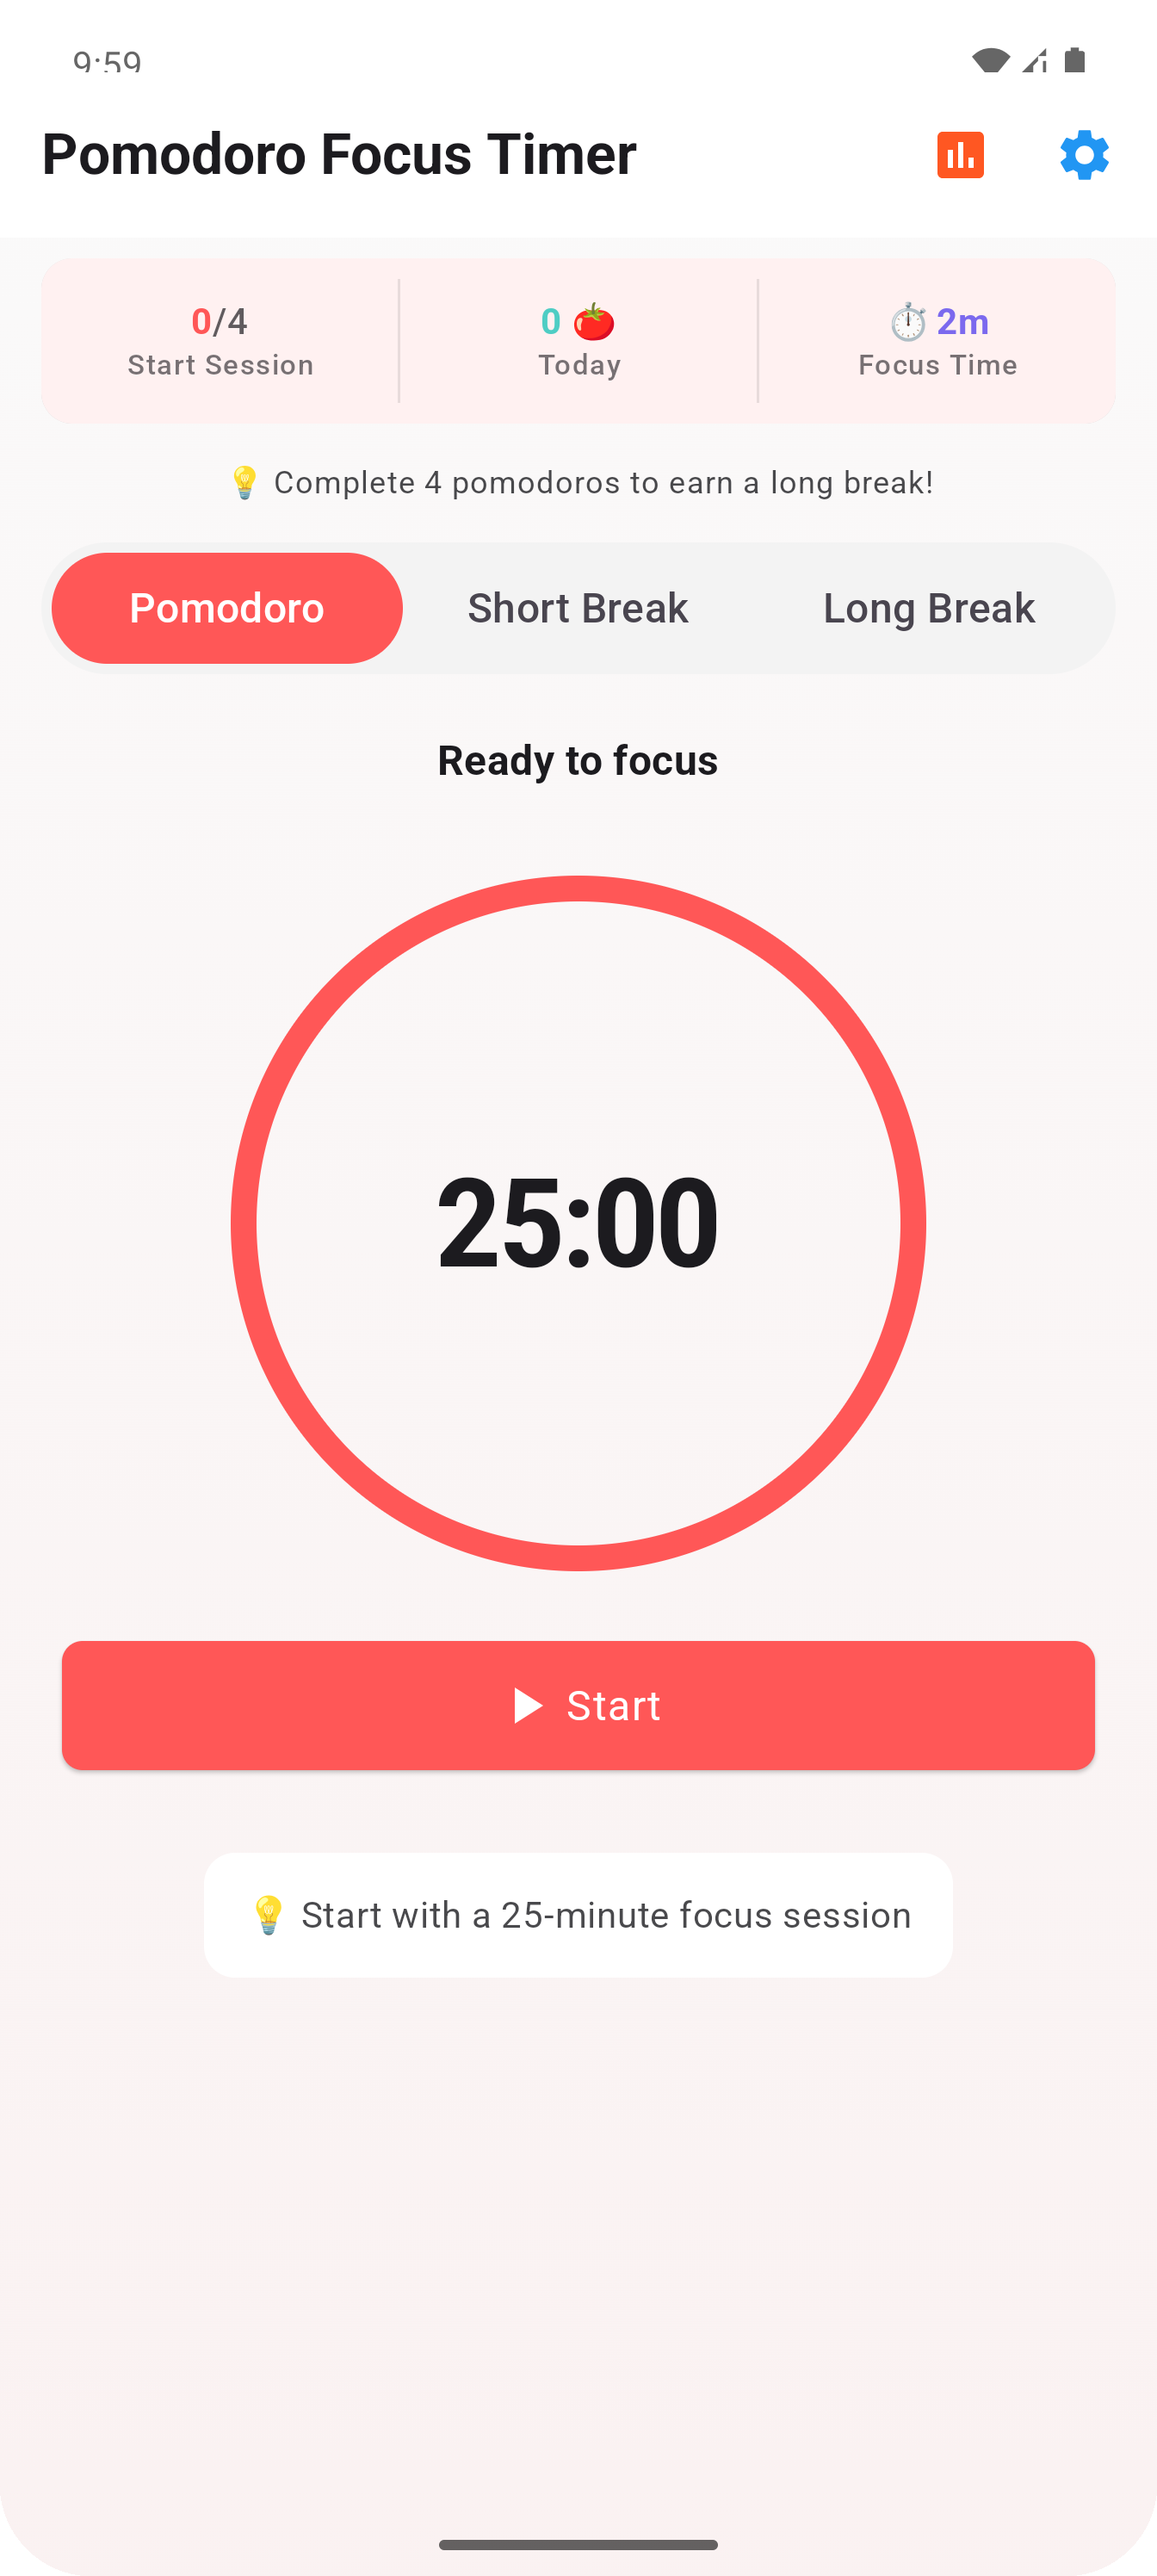
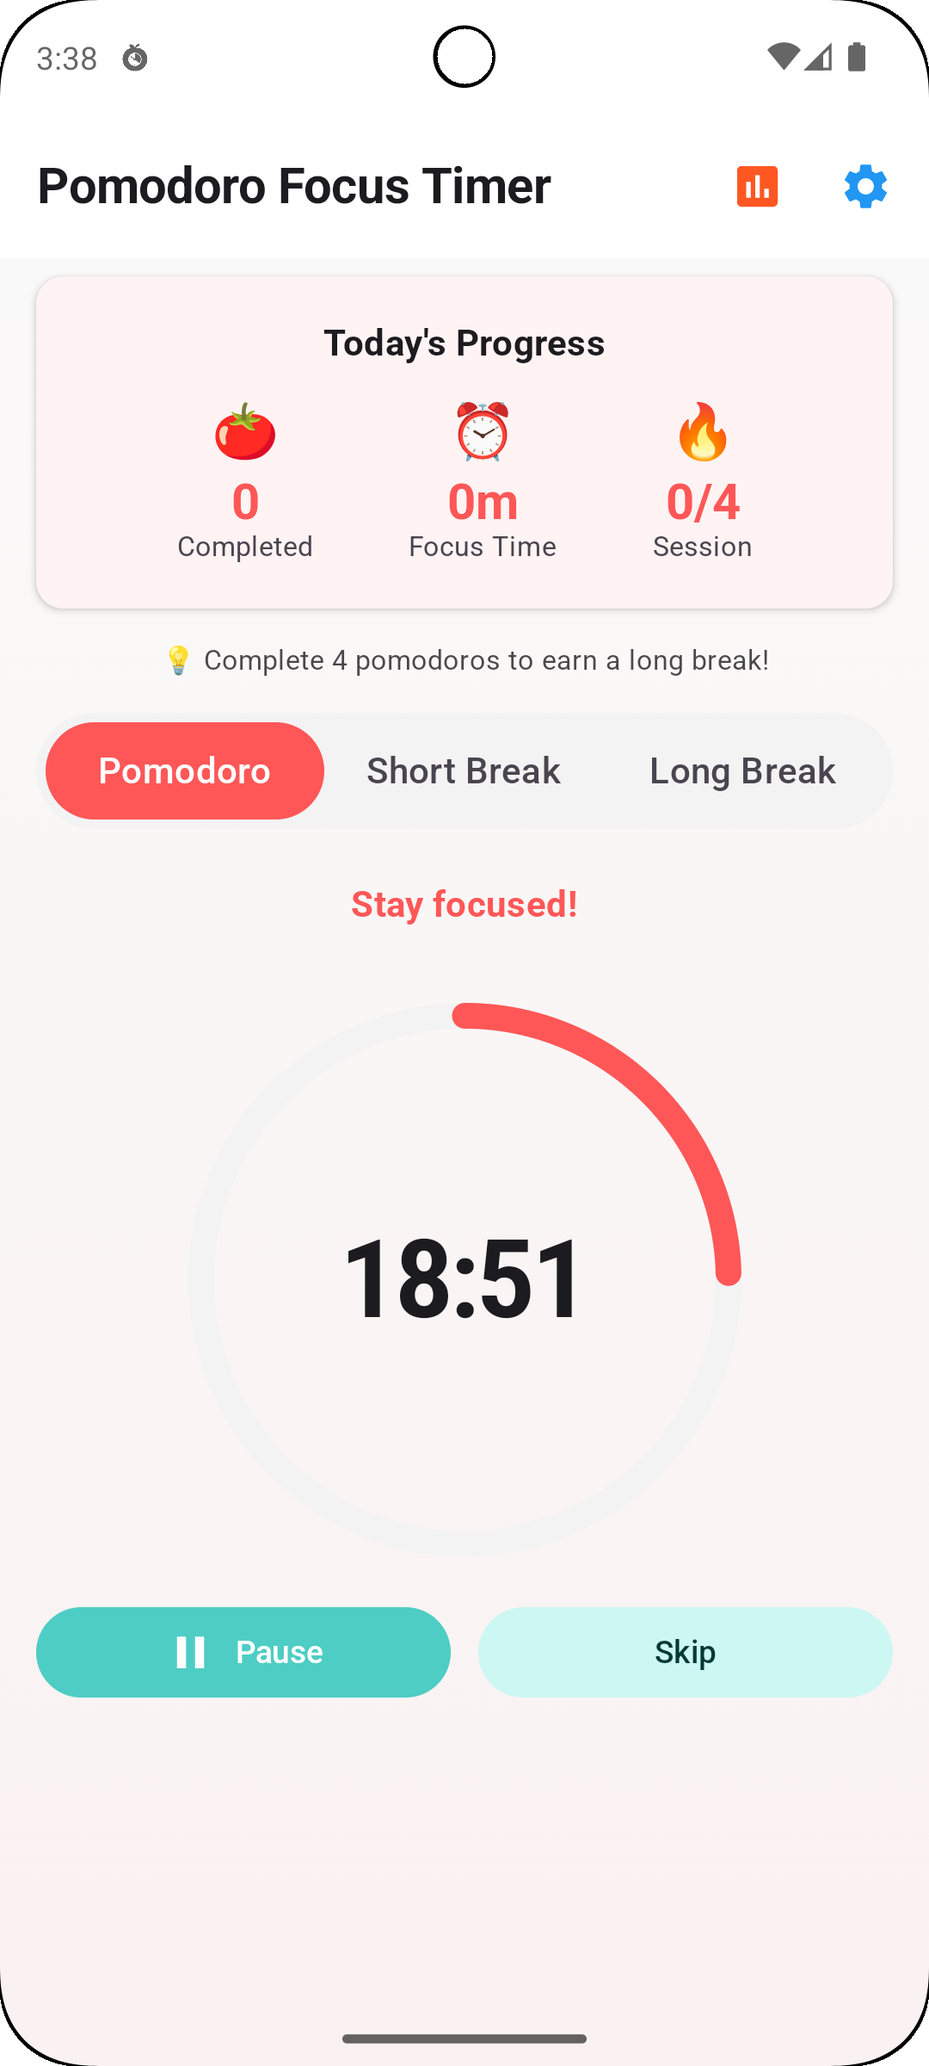
Readme.md changed

diff --git a/README.md b/README.md
@@ -64,9 +64,9 @@ cd PomodoroFocusTimer
 
 <div align="center">
   <img src="img/img1.png" width="200" />
+  <img src="img/img1_1.png" width="200" />
   <img src="img/img4.png" width="200" />
   <img src="img/img5.png" width="200" />
-  <img src="img/img6.png" width="200" />
 </div>
 
 
